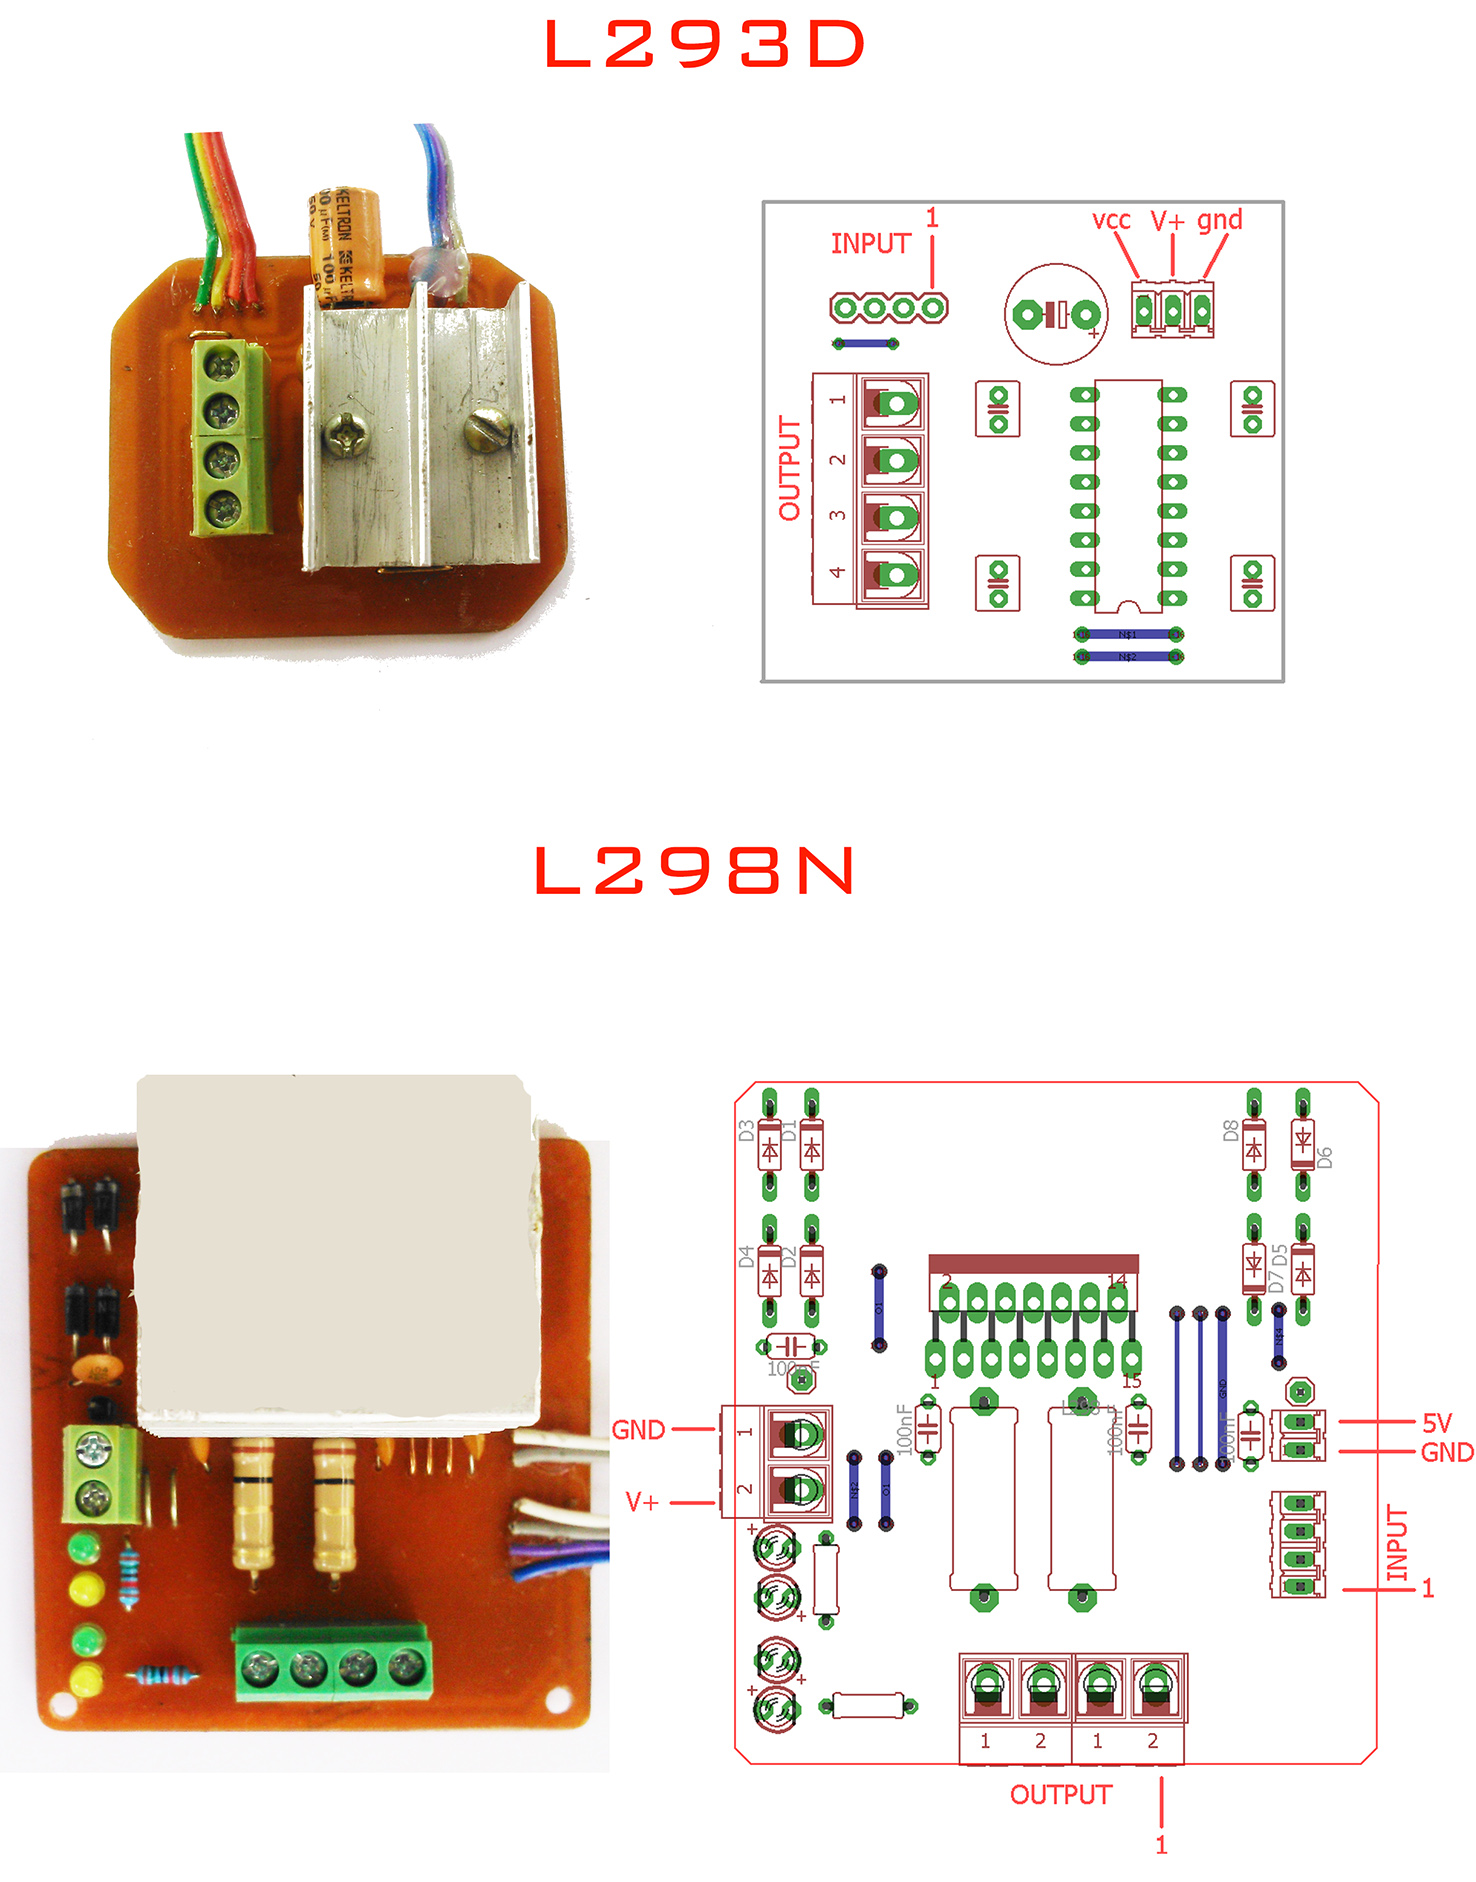
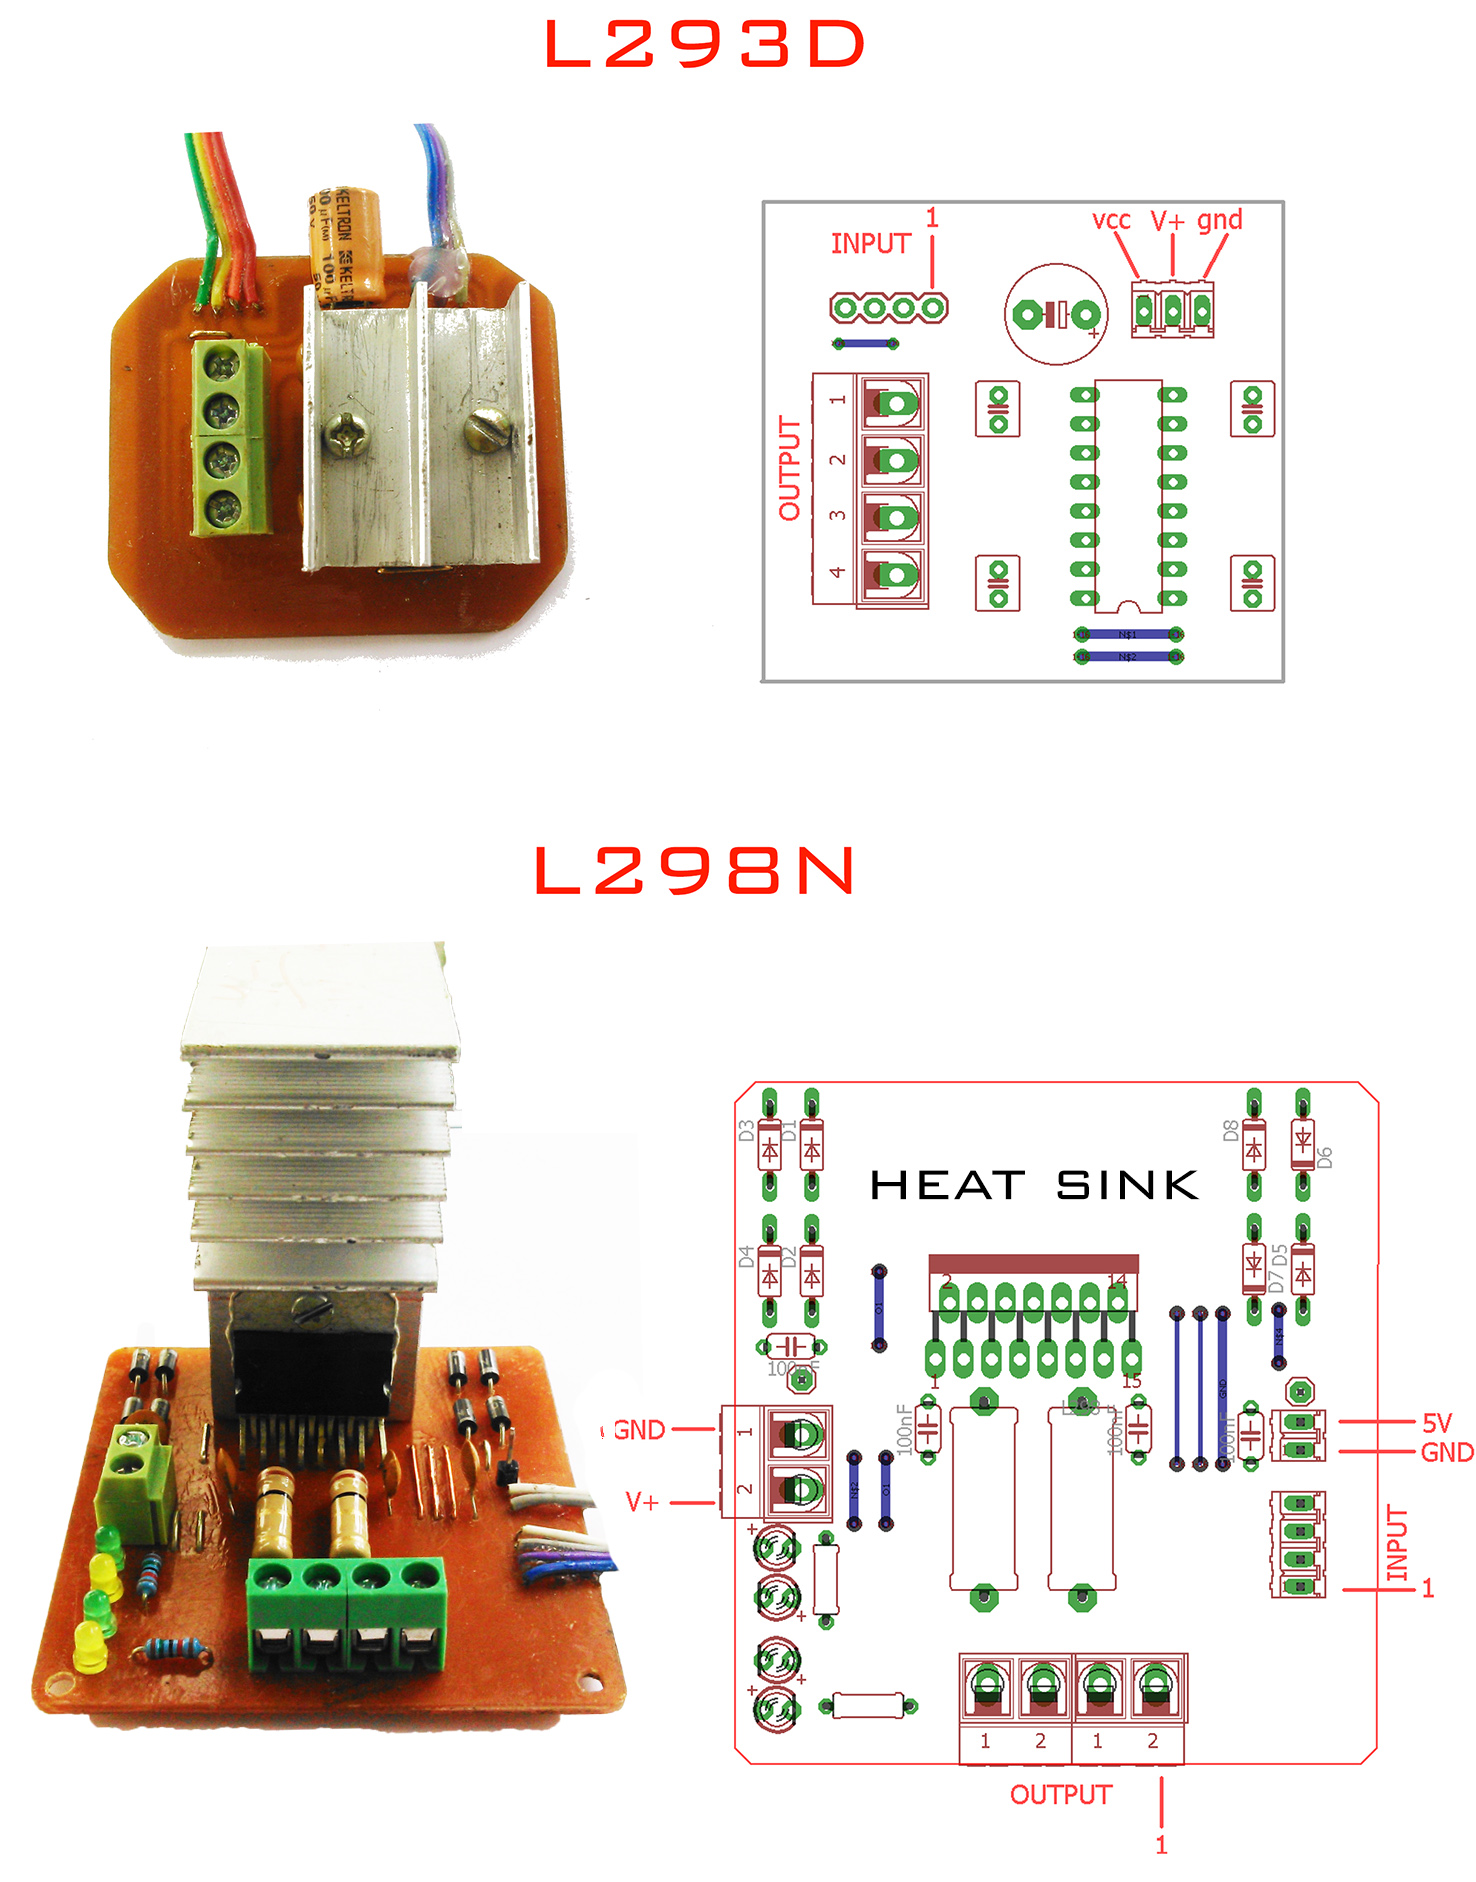
edit

Changed region(s): [[0.0, 0.5547, 0.4363, 0.9245], [0.7168, 0.6164, 0.8103, 0.6472], [0.5921, 0.6164, 0.6856, 0.6472]]

diff --git a/README.md b/README.md
@@ -1,7 +1,7 @@
 # Project-X
 ## stepper driver DOC
 
-<p align="center"><img src="images/info02s.jpg" width="600"></center></p>
+<p align="center"><img src="images/info01s.jpg" width="600"></center></p>
 
 
 
